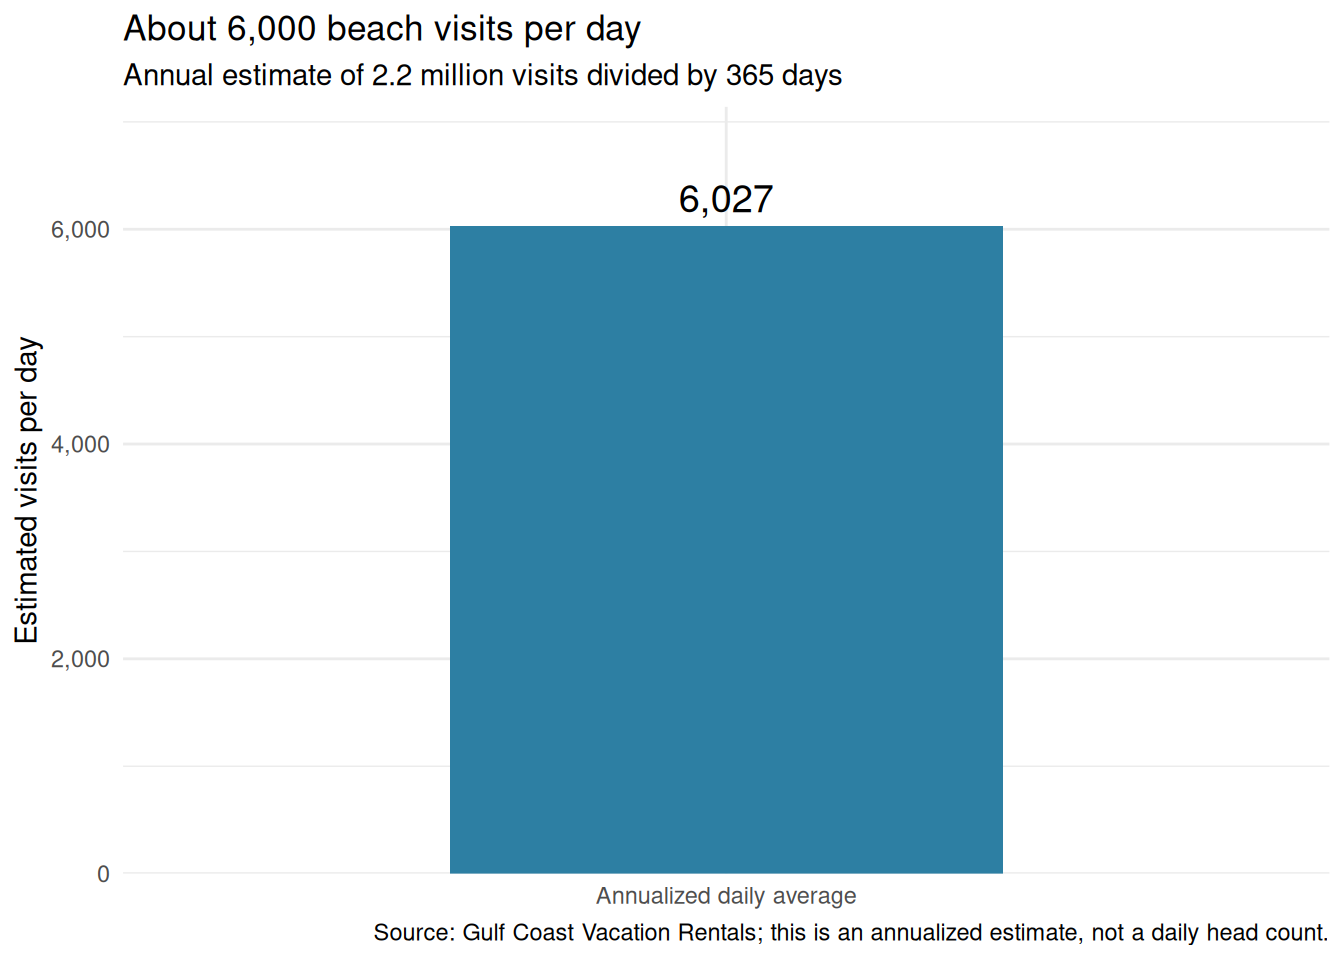
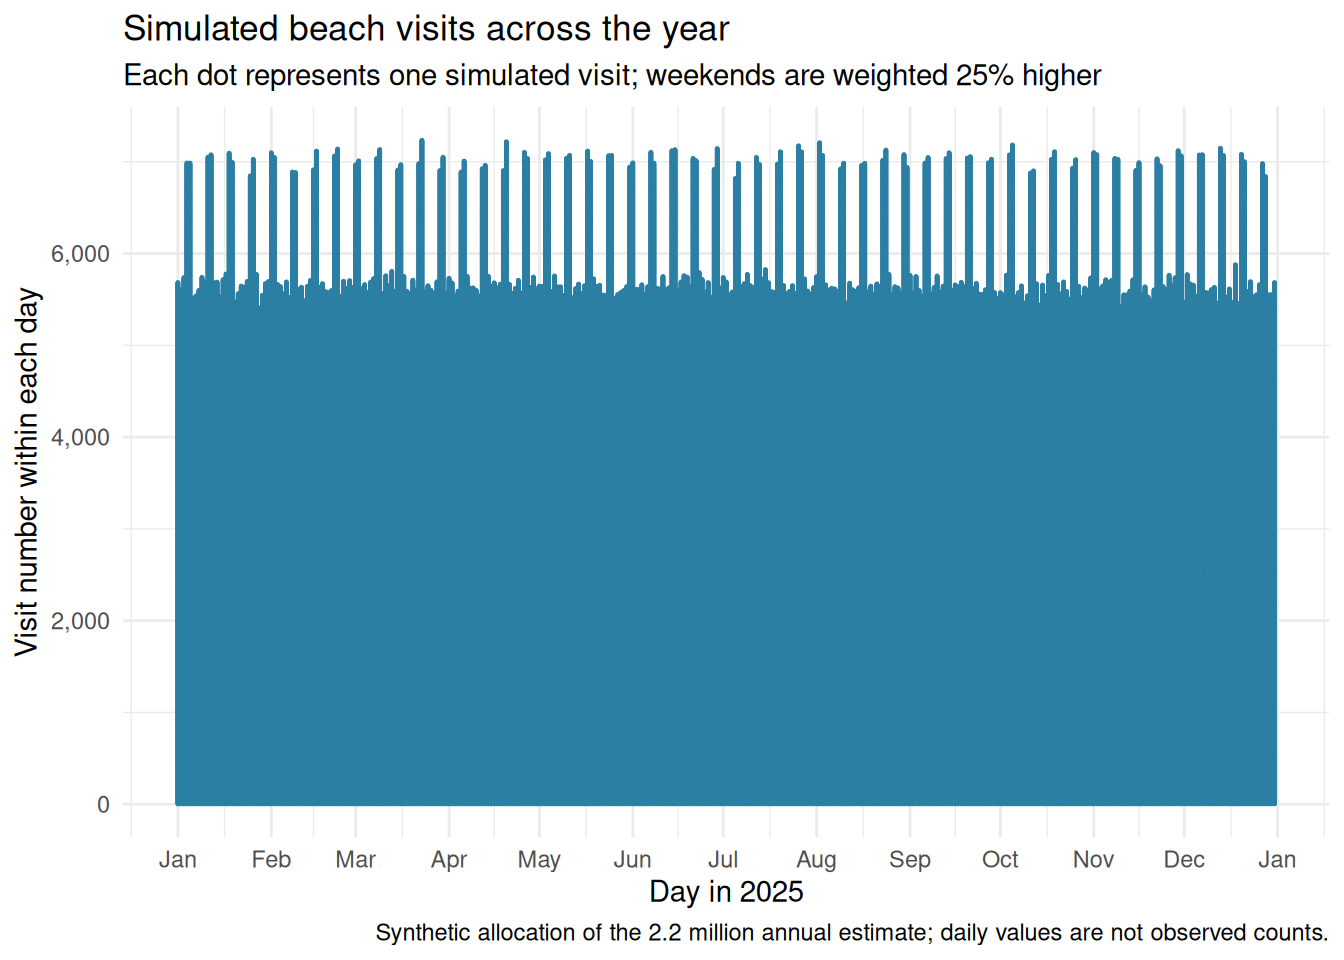
Built site for gh-pages

diff --git a/index.html b/index.html
@@ -69,9 +69,9 @@ ul.task-list li input[type="checkbox"] {
 </header>
 
 
-<section id="a-rough-daily-average" class="level2">
-<h2 class="anchored" data-anchor-id="a-rough-daily-average">A rough daily average</h2>
-<p>A local vacation-rental provider reports an estimate of <strong>2.2 million visitors per year</strong> to Siesta Key Beach. Dividing by 365 days gives an annualized average of about <strong>6,027 visits per day</strong>.</p>
+<section id="an-illustrative-scatter-plot" class="level2">
+<h2 class="anchored" data-anchor-id="an-illustrative-scatter-plot">An illustrative scatter plot</h2>
+<p>A local vacation-rental provider reports an estimate of <strong>2.2 million visitors per year</strong> to Siesta Key Beach, but does not publish daily attendance counts. The plot below uses simulated visits: each dot represents one visit, and the annual total is randomly allocated across 2025 days, with weekend days given slightly higher weight. This weekend effect is an assumption for illustration, not observed beach data.</p>
 <div class="cell">
 <div class="cell-output-display">
 <div>
@@ -81,7 +81,7 @@ ul.task-list li input[type="checkbox"] {
 </div>
 </div>
 </div>
-<p>This is a rough average, not a claim that the beach gets the same number of visitors every day. The published annual estimate does not describe its counting method, and actual attendance likely changes by season, weather, and day of the week.</p>
+<p>There are 2.2 million dots, so they overlap at this display size. The source does not identify unique people or describe its counting method; these dots represent modeled visits, not actual people or measured daily attendance.</p>
 </section>
 <section id="source" class="level2">
 <h2 class="anchored" data-anchor-id="source">Source</h2>

diff --git a/project.html b/project.html
@@ -69,9 +69,9 @@ ul.task-list li input[type="checkbox"] {
 </header>
 
 
-<section id="a-rough-daily-average" class="level2">
-<h2 class="anchored" data-anchor-id="a-rough-daily-average">A rough daily average</h2>
-<p>A local vacation-rental provider reports an estimate of <strong>2.2 million visitors per year</strong> to Siesta Key Beach. Dividing by 365 days gives an annualized average of about <strong>6,027 visits per day</strong>.</p>
+<section id="an-illustrative-scatter-plot" class="level2">
+<h2 class="anchored" data-anchor-id="an-illustrative-scatter-plot">An illustrative scatter plot</h2>
+<p>A local vacation-rental provider reports an estimate of <strong>2.2 million visitors per year</strong> to Siesta Key Beach, but does not publish daily attendance counts. The plot below uses simulated visits: each dot represents one visit, and the annual total is randomly allocated across 2025 days, with weekend days given slightly higher weight. This weekend effect is an assumption for illustration, not observed beach data.</p>
 <div class="cell">
 <div class="cell-output-display">
 <div>
@@ -81,7 +81,7 @@ ul.task-list li input[type="checkbox"] {
 </div>
 </div>
 </div>
-<p>This is a rough average, not a claim that the beach gets the same number of visitors every day. The published annual estimate does not describe its counting method, and actual attendance likely changes by season, weather, and day of the week.</p>
+<p>There are 2.2 million dots, so they overlap at this display size. The source does not identify unique people or describe its counting method; these dots represent modeled visits, not actual people or measured daily attendance.</p>
 </section>
 <section id="source" class="level2">
 <h2 class="anchored" data-anchor-id="source">Source</h2>
